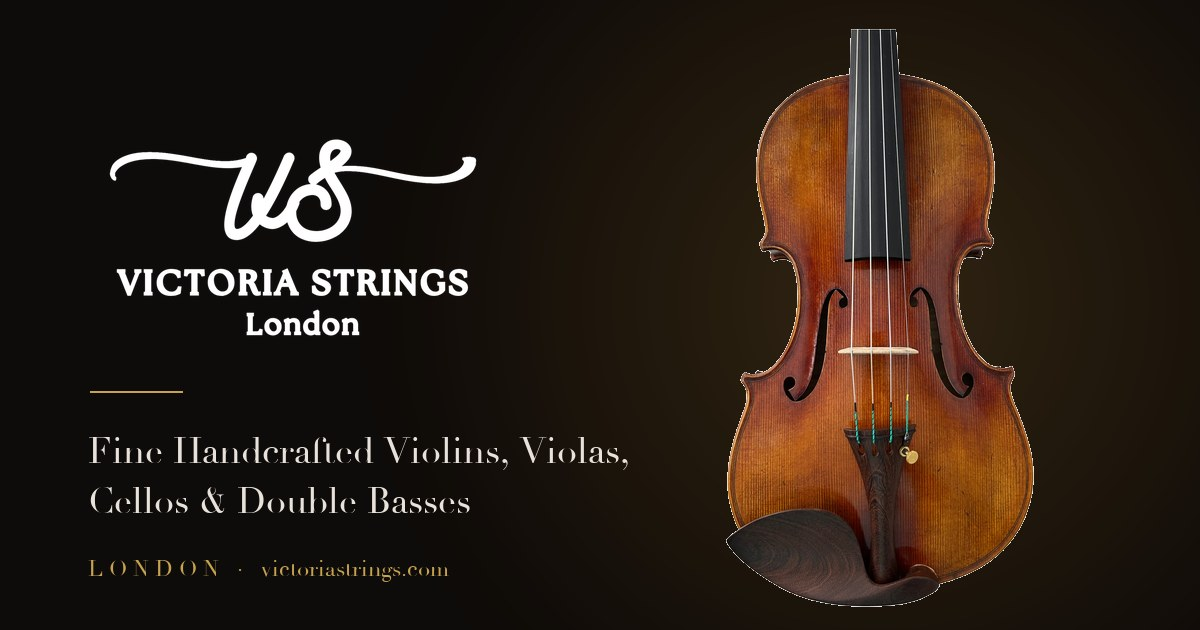
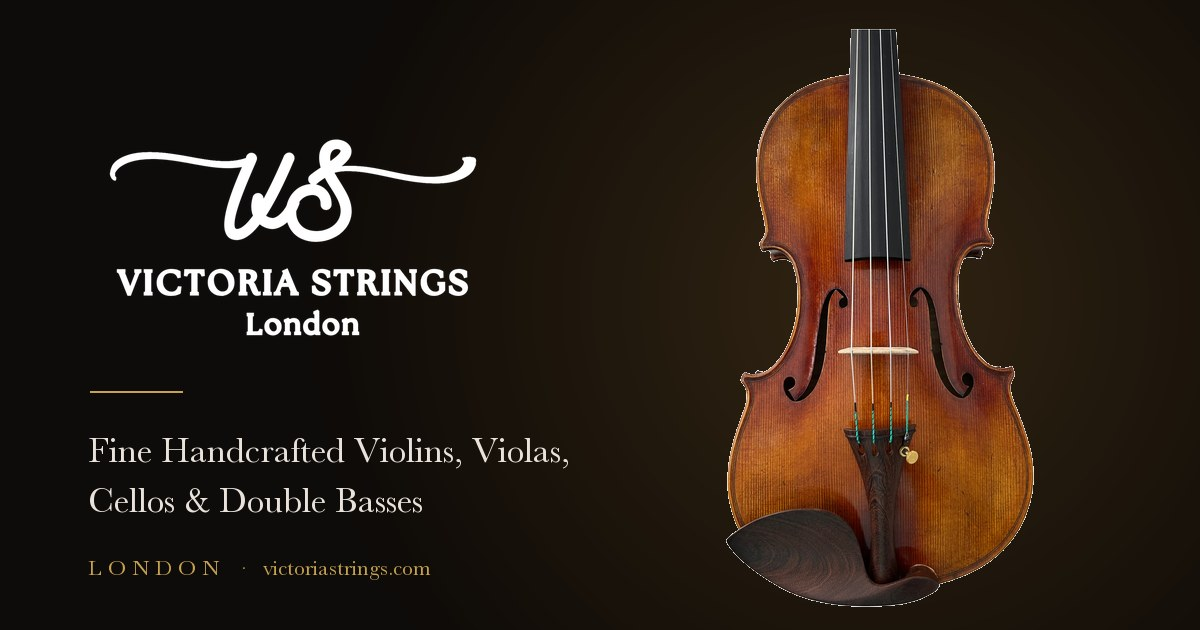
Give every instrument a purpose-built social share card
Social scrapers crop og:image to 1.91:1, so a full-length instrument
photograph was reduced to a slice of its middle. Each instrument now has
a 1200x630 card carrying the logo, the instrument name and the enquiry
line. Baskerville replaces Didot throughout: Didot's old-style figures
rendered "Violin 10" as "Violin io".

Changed region(s): [[0.0617, 0.6937, 0.5242, 0.8143], [0.2158, 0.8746, 0.37, 0.9349], [0.0925, 0.8746, 0.185, 0.9349]]

diff --git a/src/lib/instrument-seo.ts b/src/lib/instrument-seo.ts
@@ -19,6 +19,9 @@ export function instrumentMetadata(
 
   const title = `${instrument.title} | Victoria Strings London`;
   const url = `${basePath}/${instrument.slug}`;
+  // Purpose-built 1200x630 card: social scrapers crop to 1.91:1, which would
+  // otherwise slice the middle out of a full-length instrument photograph.
+  const card = `/og${basePath}-${instrument.slug}.jpg`;
 
   return {
     title,
@@ -30,13 +33,13 @@ export function instrumentMetadata(
       description: instrument.caption,
       url,
       siteName: "Victoria Strings London",
-      images: [{ url: instrument.images[0], alt: instrument.title }],
+      images: [{ url: card, width: 1200, height: 630, alt: instrument.title }],
     },
     twitter: {
       card: "summary_large_image",
       title,
       description: instrument.caption,
-      images: [instrument.images[0]],
+      images: [card],
     },
   };
 }
